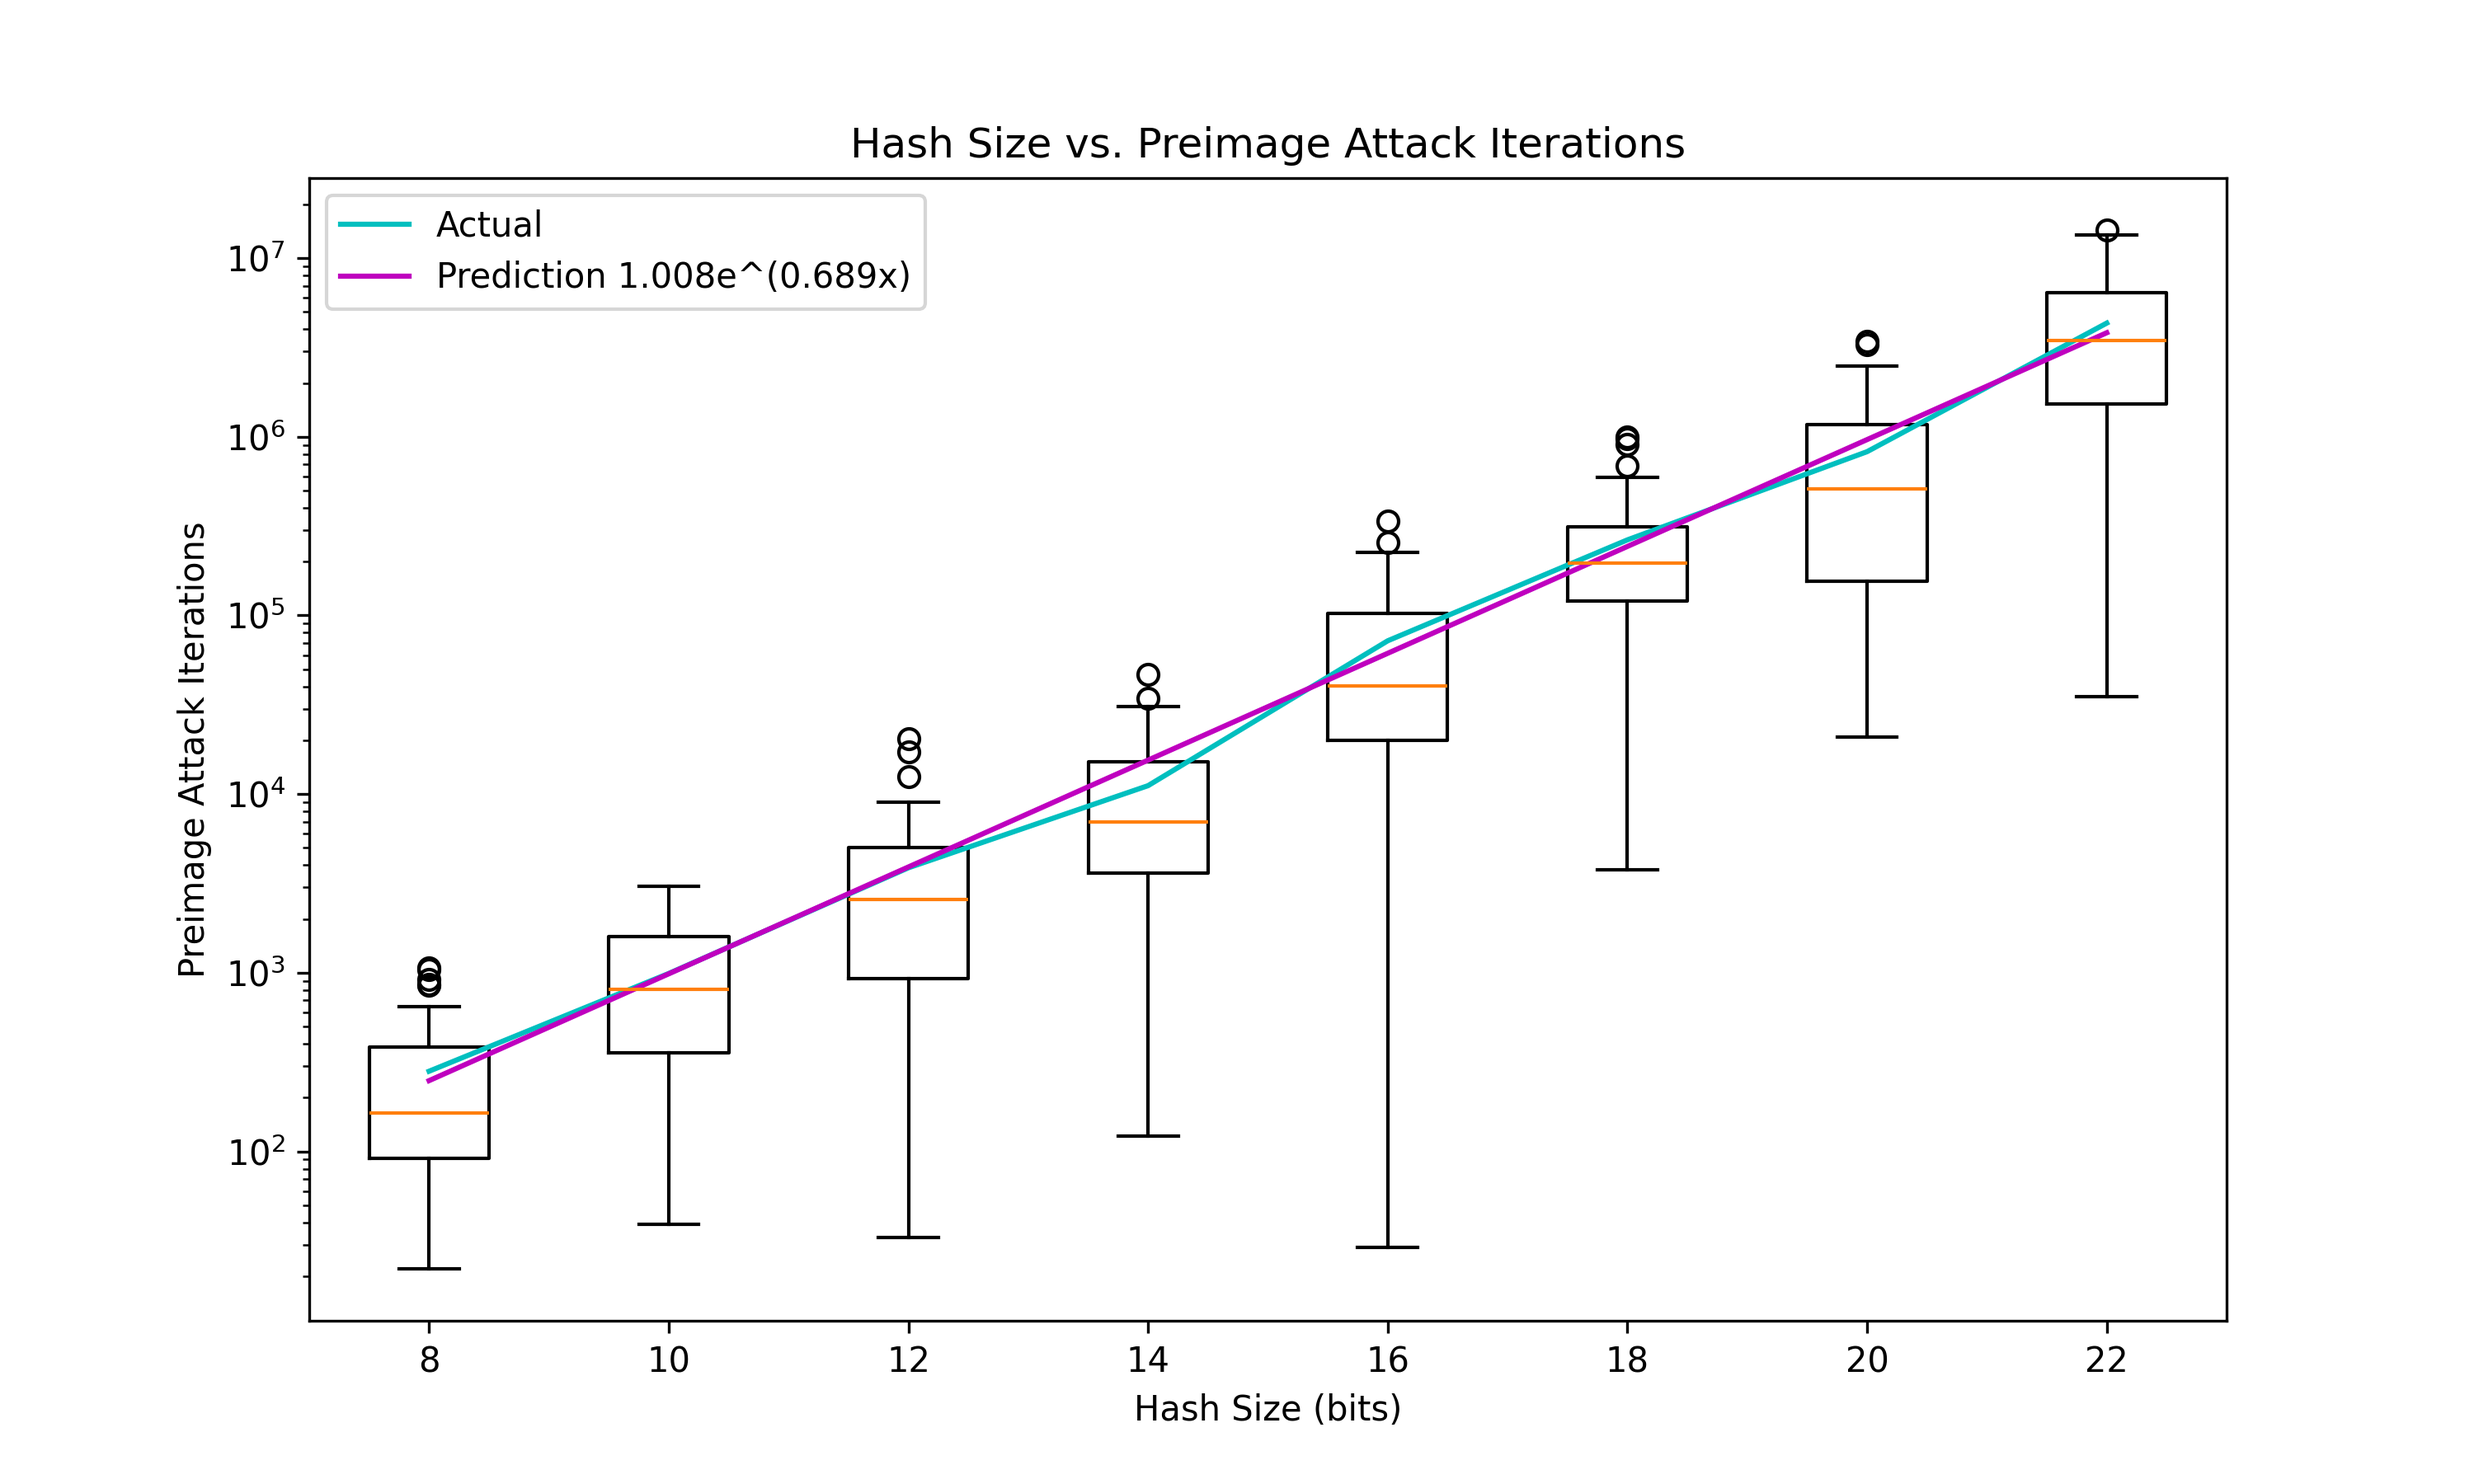
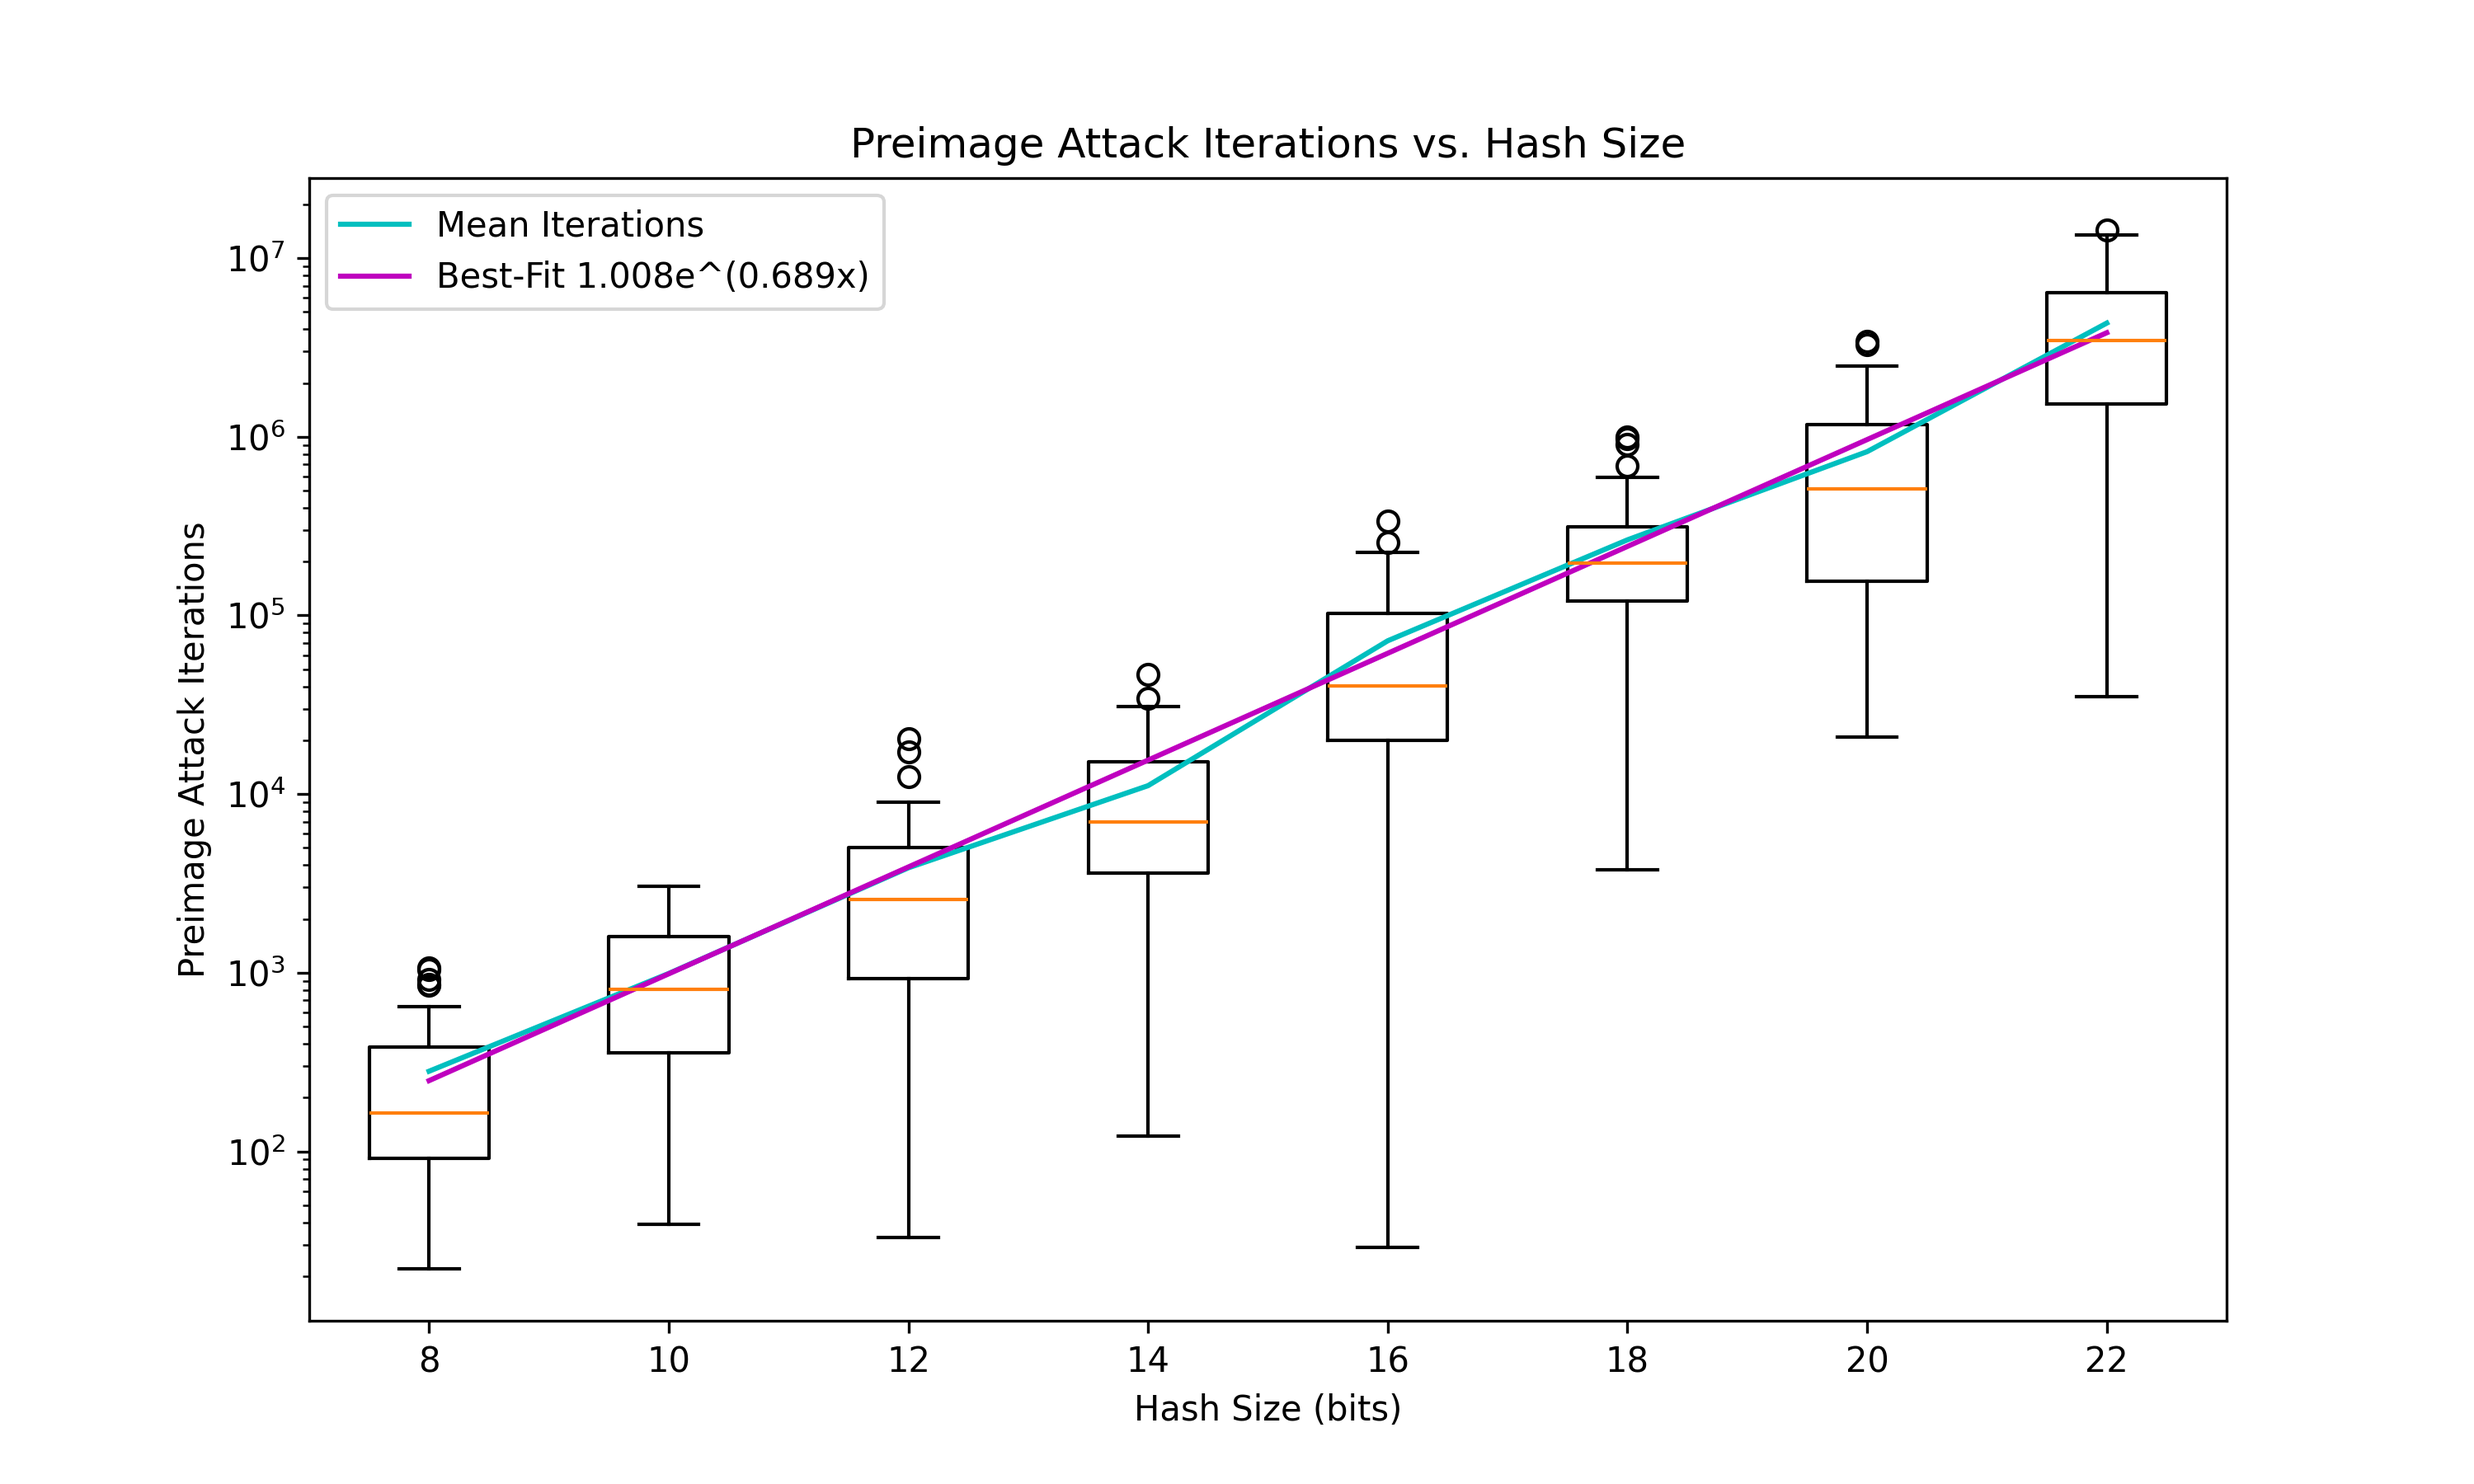
fixed graphs

Changed region(s): [[0.186, 0.1244, 0.372, 0.2178], [0.341, 0.0933, 0.682, 0.1244]]

diff --git a/HashAttack/graph.py b/HashAttack/graph.py
@@ -56,14 +56,14 @@ def make_graph(data, attack_type):
     fake_x = [i+1 for i in range(len(data))]
 
     plt.figure(figsize=(10, 6))
-    plt.title(f"Hash Size vs. {attack_type} Attack Iterations")
+    plt.title(f"{attack_type} Attack Iterations vs. Hash Size")
     plt.xlabel("Hash Size (bits)")
     plt.ylabel(f"{attack_type} Attack Iterations")
     plt.yscale('log')
     plt.boxplot(data)
     plt.xticks(fake_x, BIT_SIZES)
-    plt.plot(fake_x, data_means, label="Actual", c='c')
-    plt.plot(fake_x, preds, label=f"Prediction {best_str}", c='m')
+    plt.plot(fake_x, data_means, label="Mean Iterations", c='c')
+    plt.plot(fake_x, preds, label=f"Best-Fit {best_str}", c='m')
     plt.legend()
     plt.savefig(f"{attack_type.lower()}.png", dpi=300)
 
